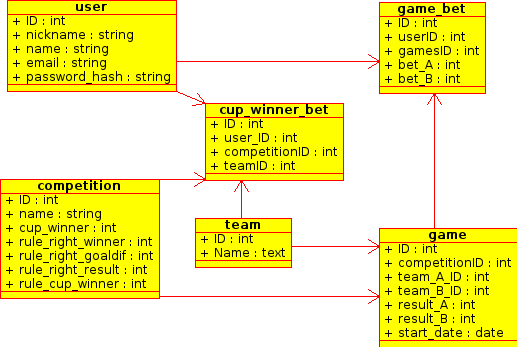
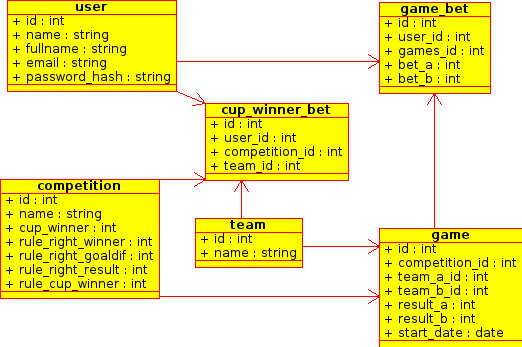
database model

diff --git a/modules/model.py b/modules/model.py
@@ -1,0 +1,54 @@
+from sqlalchemy import Column, Integer, String, Date, ForeignKey
+
+# http://docs.sqlalchemy.org/en/rel_0_9/orm/tutorial.html
+from sqlalchemy.ext.declarative import declarative_base
+
+Base = declarative_base()
+
+class User(Base):
+    __tablename__ = 'user'
+    id = Column(Integer, primary_key=True)
+    name = Column(String)
+    fullname = Column(String)
+    email = Column(String)
+    password_hash = Column(String)
+
+class Team(Base):
+    __tablename__ = 'team'
+    id = Column(Integer, primary_key=True)
+    name = Column(String)
+
+class Competition(Base):
+    __tablename__ = 'competition'
+    id = Column(Integer, primary_key=True)
+    name = Column(String)
+    cup_winner = Column(Integer)
+    rule_right_winner = Column(Integer)
+    rule_right_goaldif = Column(Integer)
+    rule_right_result = Column(Integer)
+    rule_cup_winner = Column(Integer)
+
+class Cup_winner_bet(Base):
+    __tablename__ = 'cup_winner_bet'
+    id = Column(Integer, primary_key=True)
+    user_id = Column(Integer, ForeignKey('user.id'))
+    competition_id = Column(Integer, ForeignKey('competition.id'))
+    team_id = Column(Integer, ForeignKey('team.id'))
+
+class Game(Base):
+    __tablename__ = 'game'
+    id = Column(Integer, primary_key=True)
+    competition_id = Column(Integer, ForeignKey('competition.id'))
+    team_a_id = Column(Integer, ForeignKey('team.id'))
+    team_b_id = Column(Integer, ForeignKey('team.id'))
+    result_a = Column(Integer)
+    result_b = Column(Integer)
+    start_date = Column(Date)
+
+class Game_bet(Base):
+    __tablename__ = 'game_bet'
+    id = Column(Integer, primary_key=True)
+    user_id = Column(Integer, ForeignKey('user.id'))
+    game_id = Column(Integer, ForeignKey('game.id'))
+    bet_a = Column(Integer)
+    bet_b = Column(Integer)
